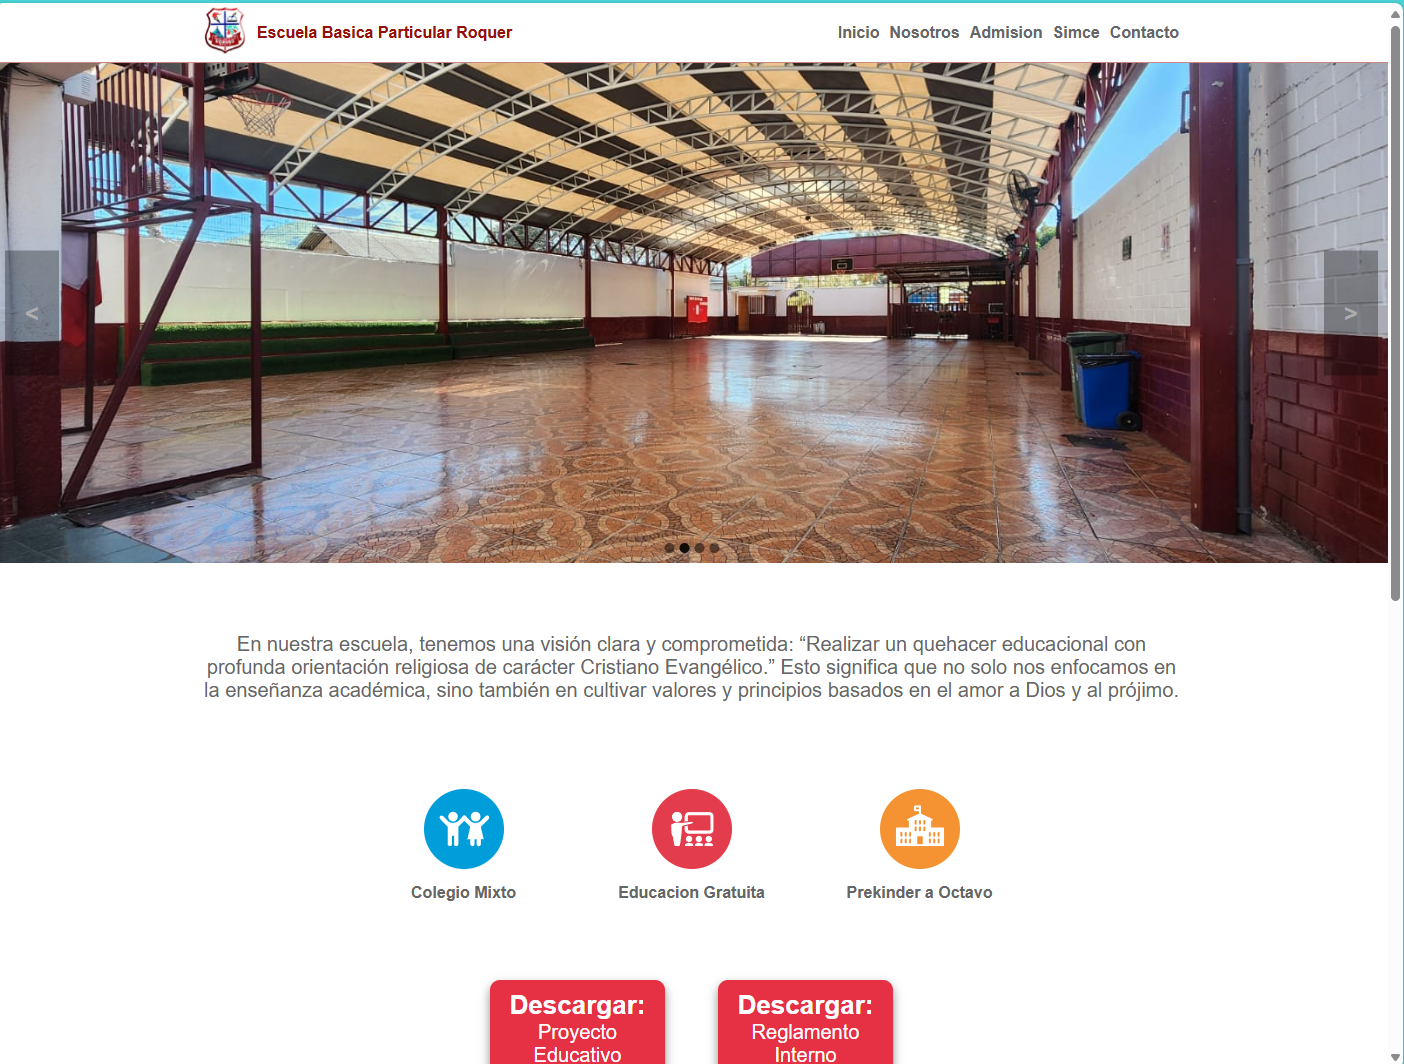
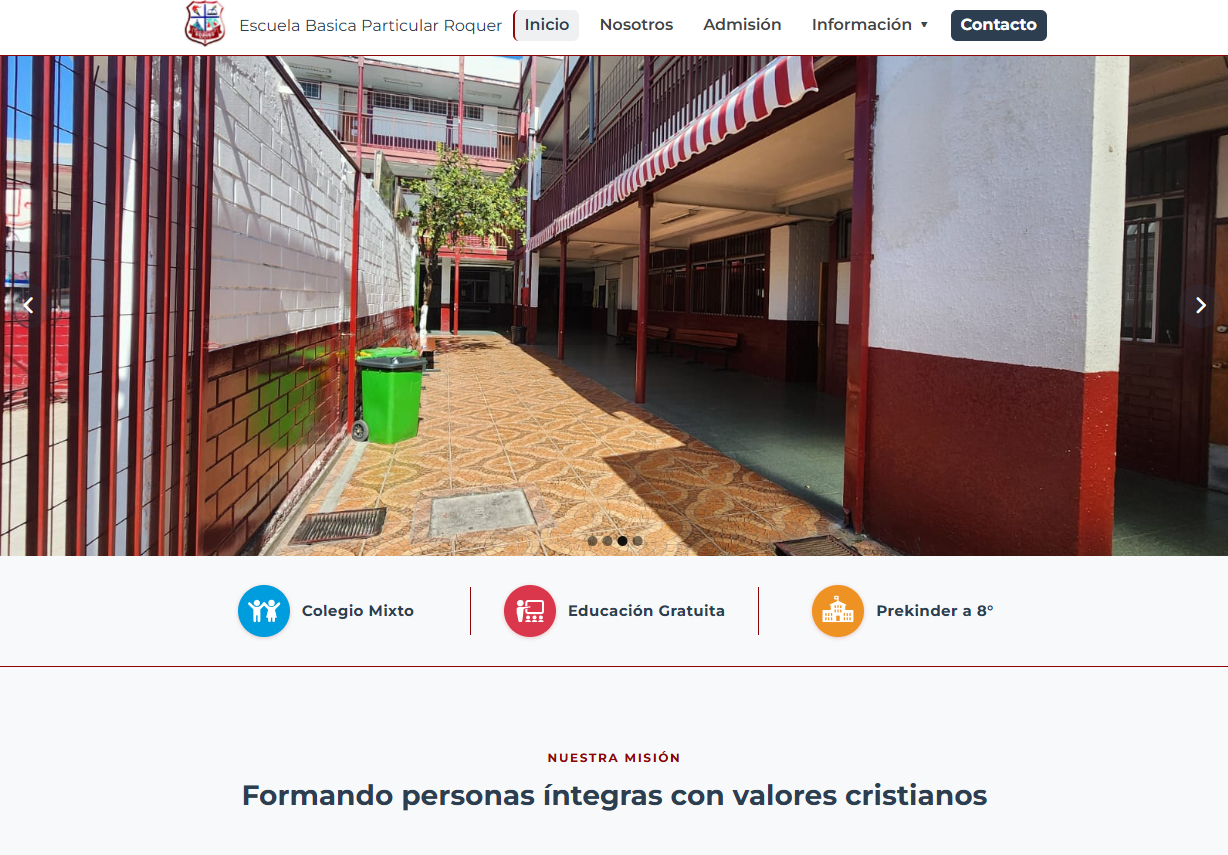
feat(projects): add projects section with featured grid
Add the Proyectos section that shows four featured projects in a responsive
grid, with the remaining older projects revealed through a client-side toggle.
Each card reuses RevealCard and TechBadge and links to live and GitHub URLs.

**Modified Files:**
- components/sections/ProjectsSection.tsx: featured grid plus collapsible older projects
- components/sections/ProjectCard.tsx: project card (image, category, stack, links)
- components/sections/MoreProjects.tsx: client toggle revealing older projects
- public/images/project{Six,Seven,Eight,Nine}.png, projectOne.png: project thumbnails

**Breaking Changes:**
None

**Tests Performed:**
npm run build (passing), tsc --noEmit

diff --git a/components/sections/ProjectCard.tsx b/components/sections/ProjectCard.tsx
@@ -1,0 +1,82 @@
+import Image from "next/image";
+import Link from "next/link";
+import { ArrowUpRight, Github } from "lucide-react";
+import RevealCard from "./RevealCard";
+import TechBadge from "./TechBadge";
+
+export interface Project {
+    id: string;
+    title: string;
+    category: string;
+    description: string;
+    stack: string[];
+    image: string;
+    liveUrl: string;
+    githubUrl: string;
+}
+
+interface Props {
+    project: Project;
+    index?: number;
+}
+
+const linkClass =
+    "flex items-center justify-center w-9 h-9 rounded-lg bg-white/5 border border-white/10 text-white/80 hover:text-accentOrange hover:border-accentOrange/40 transition-colors";
+
+/**
+ * Tarjeta de proyecto: miniatura + categoría + descripción + stack + enlaces.
+ * Se apoya en RevealCard (glass + animación) y TechBadge para no duplicar estilo.
+ * La columna flex empuja los enlaces al fondo para alinear filas de la grilla.
+ */
+const ProjectCard = ({ project, index = 0 }: Props) => {
+    return (
+        <RevealCard index={index} className="flex flex-col p-4">
+            <div className="relative aspect-video rounded-lg overflow-hidden mb-3.5 bg-white/[0.04]">
+                <Image
+                    src={project.image}
+                    alt={project.title}
+                    fill
+                    sizes="(max-width: 768px) 100vw, 50vw"
+                    className="object-cover"
+                    loading="lazy"
+                />
+            </div>
+            <p className="text-[11px] font-semibold uppercase tracking-wider text-accentOrange mb-1.5">
+                {project.category}
+            </p>
+            <h3 className="text-base font-semibold text-white mb-2">
+                {project.title}
+            </h3>
+            <p className="text-sm leading-relaxed text-white/65 mb-3.5 flex-1">
+                {project.description}
+            </p>
+            <div className="flex flex-wrap gap-2 mb-3.5">
+                {project.stack.map((tech) => (
+                    <TechBadge key={tech}>{tech}</TechBadge>
+                ))}
+            </div>
+            <div className="flex gap-2.5 mt-auto">
+                {project.liveUrl && (
+                    <Link
+                        href={project.liveUrl}
+                        target="_blank"
+                        aria-label="Ver sitio en vivo"
+                        className={linkClass}
+                    >
+                        <ArrowUpRight className="w-[18px] h-[18px]" />
+                    </Link>
+                )}
+                <Link
+                    href={project.githubUrl}
+                    target="_blank"
+                    aria-label="Repositorio GitHub"
+                    className={linkClass}
+                >
+                    <Github className="w-[18px] h-[18px]" />
+                </Link>
+            </div>
+        </RevealCard>
+    );
+};
+
+export default ProjectCard;

diff --git a/components/sections/MoreProjects.tsx b/components/sections/MoreProjects.tsx
@@ -1,0 +1,56 @@
+"use client";
+import { useState } from "react";
+import { ChevronDown } from "lucide-react";
+import { cn } from "@/lib/utils";
+import ProjectCard, { type Project } from "./ProjectCard";
+
+interface Props {
+    projects: Project[];
+}
+
+/**
+ * Toggle de "proyectos anteriores": aísla la interactividad (useState) para que
+ * ProjectsSection siga siendo un server component. Al abrirse revela la grilla
+ * de proyectos más antiguos, que comparten ProjectCard con los destacados.
+ */
+const MoreProjects = ({ projects }: Props) => {
+    const [open, setOpen] = useState(false);
+
+    return (
+        <>
+            <div className="flex justify-center mt-5">
+                <button
+                    type="button"
+                    onClick={() => setOpen((prev) => !prev)}
+                    aria-expanded={open}
+                    aria-controls="older-projects"
+                    className="inline-flex items-center gap-2 h-10 px-5 rounded-full bg-white/[0.04] border border-white/[0.12] text-white/75 text-[13px] font-semibold hover:text-accentOrange hover:border-accentOrange/40 hover:bg-accentOrange/[0.06] transition-colors"
+                >
+                    {open ? "Ocultar proyectos anteriores" : "Ver proyectos anteriores"}
+                    <ChevronDown
+                        className={cn(
+                            "w-4 h-4 transition-transform duration-300",
+                            open && "rotate-180"
+                        )}
+                    />
+                </button>
+            </div>
+            {open && (
+                <div
+                    id="older-projects"
+                    className="grid grid-cols-1 sm:grid-cols-2 gap-5 mt-5"
+                >
+                    {projects.map((project, index) => (
+                        <ProjectCard
+                            key={project.id}
+                            project={project}
+                            index={index}
+                        />
+                    ))}
+                </div>
+            )}
+        </>
+    );
+};
+
+export default MoreProjects;

diff --git a/components/sections/ProjectsSection.tsx b/components/sections/ProjectsSection.tsx
@@ -1,0 +1,28 @@
+import { projectsData } from "@/constants";
+import Section from "./Section";
+import SectionHeading from "./SectionHeading";
+import ProjectCard from "./ProjectCard";
+import MoreProjects from "./MoreProjects";
+
+const ProjectsSection = () => {
+    const featured = projectsData.filter((project) => project.featured);
+    const older = projectsData.filter((project) => !project.featured);
+
+    return (
+        <Section id="proyectos" className="scroll-m-[25vh]">
+            <SectionHeading index="02" title="Proyectos" />
+            <div className="grid grid-cols-1 sm:grid-cols-2 gap-5">
+                {featured.map((project, index) => (
+                    <ProjectCard
+                        key={project.id}
+                        project={project}
+                        index={index}
+                    />
+                ))}
+            </div>
+            {older.length > 0 && <MoreProjects projects={older} />}
+        </Section>
+    );
+};
+
+export default ProjectsSection;